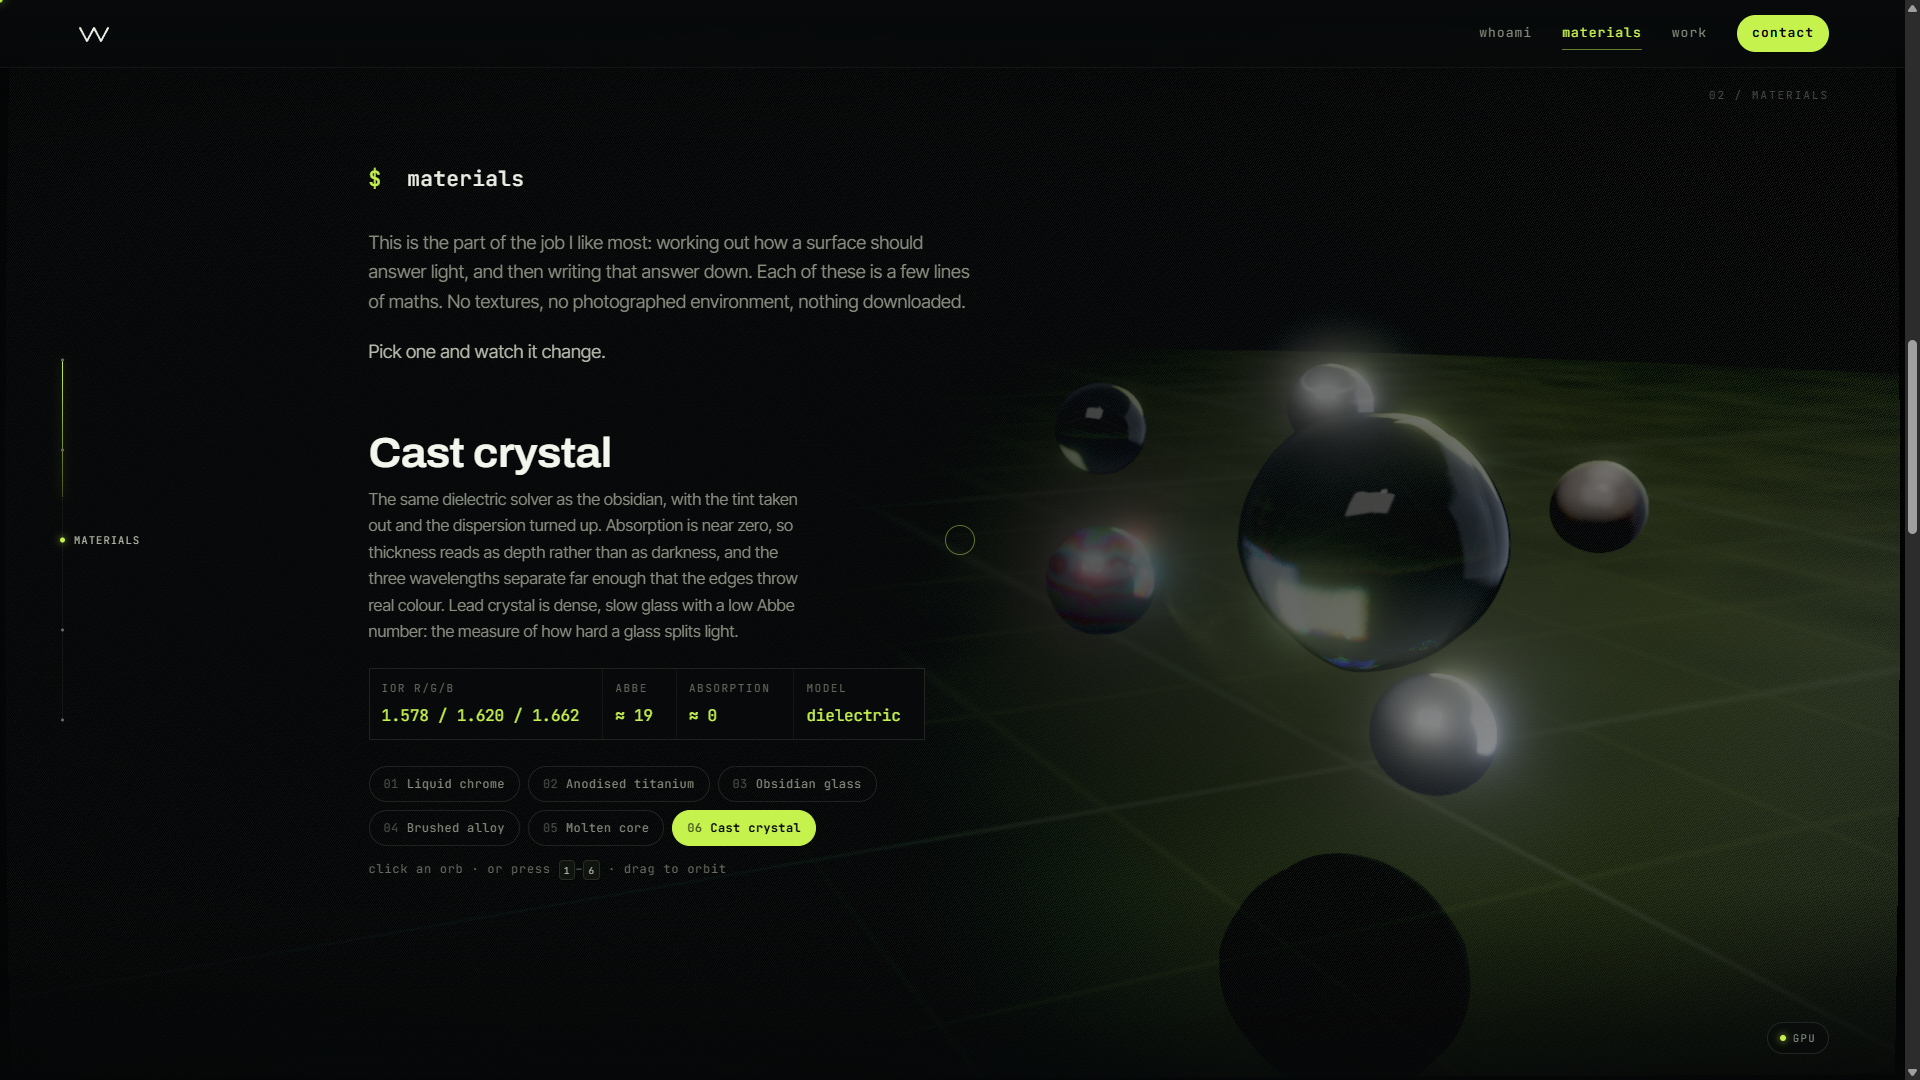
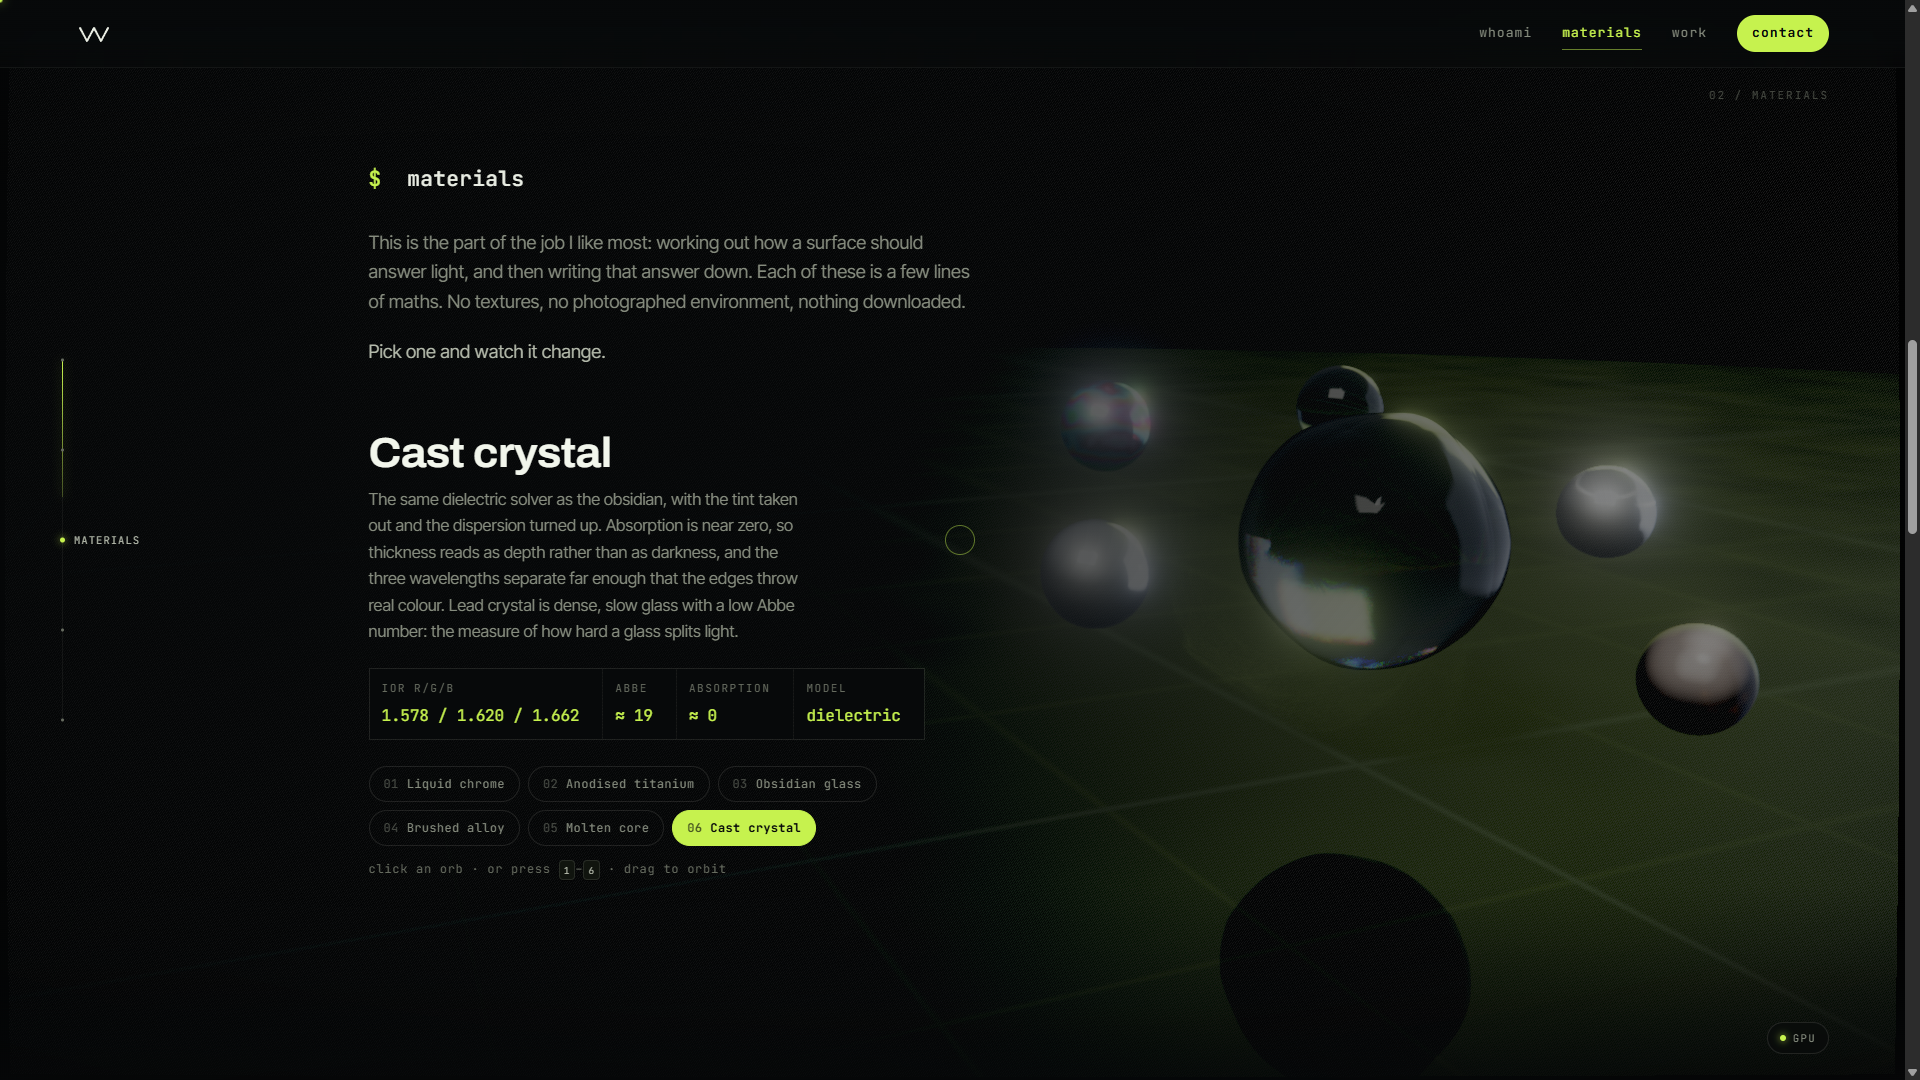
Recapture the README images at a tier the site actually runs at
Headless Chrome never gives the quality controller the clean frame timings it
waits for, so it stays at the opening tier indefinitely: `renderer.tier.name`
came back "low" after seventeen seconds of settling. Every image in this
README was therefore a photograph of the fallback, at the lowest render scale
with the temporal filter undersampled, which is why they were dim and full of
particle noise the real page does not have.

It also cost an hour of chasing a rendering bug that was not there. The cast
crystal appeared to crumple during a merge; forcing `?tier=ultra` rendered the
same frame clean. The geometry was never wrong.

Captured with the tier forced now, and the README says so, because the next
person to look at a harness screenshot and see something ugly should suspect
this first.

diff --git a/README.md b/README.md
@@ -150,7 +150,12 @@ GPU=1 PAGE=bisect.html node tools/gputest.mjs   # which part of one costs what
 ```
 
 Every image in this README is a real GPU capture taken through that harness,
-at 1920×1080 and at 390×844, on an RTX 4070 at 60 fps.
+at 1920×1080 and at 390×844, on an RTX 4070 at 60 fps. They are taken with
+`?tier=ultra` in the URL, and that is not vanity: headless Chrome never gives
+the quality controller the clean frame timings it wants, so it sits at the
+opening tier forever and every capture came back dim, undersampled and full of
+particle noise that is not in the real thing. An hour went into chasing a
+rendering bug that turned out to be the harness photographing the fallback.
 
 | | |
 |---|---|
